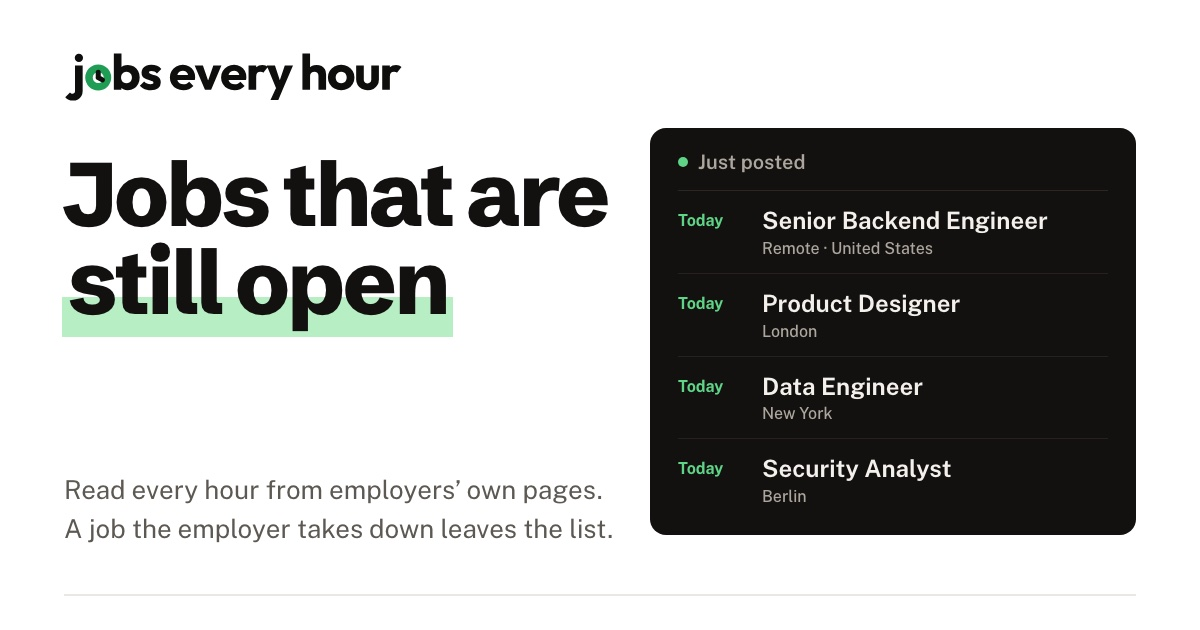
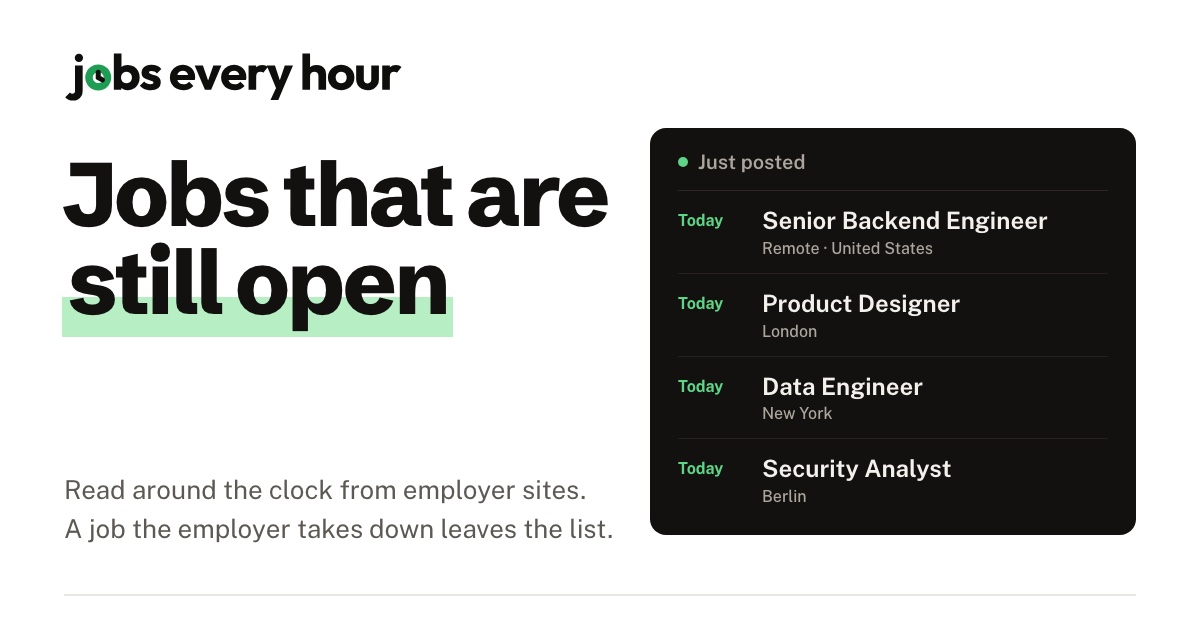
Share picture: its address carries its version, so Cloudflare and social networks stop showing the old Hiring Right Now picture; the line says around the clock

Changed region(s): [[0.1233, 0.754, 0.4933, 0.8143]]

diff --git a/build.py b/build.py
@@ -60,6 +60,10 @@ CFG["talent_db"] = bool(CFG["api_url"]) and (os.environ.get("HRN_TALENT_DB") == 
 SITE, BASE, P = CFG["site_name"], CFG["base_url"].rstrip("/"), CFG.get("base_path", "").rstrip("/")
 LVL_NAME = {"Intern": "Intern", "Junior": "Junior", "Senior": "Senior", "Lead": "Lead and above", "": "No level in the title"}   # the one vocabulary for seniority (AUDIT 21); "Lead" covers lead, staff, principal, head of, director
 FULL = BASE + P
+try:      # the share picture's address carries its version: Cloudflare and the social networks keep a picture for weeks, and on 27 Nov
+    OG_URL = f"{FULL}/og.jpg?v={hashlib.md5((ROOT / 'assets' / 'og.jpg').read_bytes()).hexdigest()[:8]}"   # /og.jpg was still the old brand
+except Exception:
+    OG_URL = f"{FULL}/og.jpg"
 TODAY = datetime.date.today().isoformat()
 e = html.escape
 MAIL = {k: v for k, v in (CFG.get("emails") or {}).items() if v}       # one address per department: jobs, partners, press, privacy, abuse, security
@@ -2153,7 +2157,7 @@ def page(path, title, desc, body, head="", sitemap=True, hero="", compact=False,
 <link rel="canonical" href="{e(url)}">
 <meta property="og:title" content="{e(title)}"><meta property="og:description" content="{e(desc)}">
 <meta property="og:type" content="website">{"" if compact else f'<meta property="og:url" content="{e(url)}">'}<meta property="og:site_name" content="{e(SITE)}">
-<meta property="og:image" content="{FULL}/og.jpg"><meta name="twitter:card" content="summary_large_image"><meta name="theme-color" content="#121110">
+<meta property="og:image" content="{OG_URL}"><meta name="twitter:card" content="summary_large_image"><meta name="theme-color" content="#121110">
 <link rel="icon" type="image/svg+xml" href="{P}/favicon.svg"><link rel="apple-touch-icon" href="{P}/brand/apple-touch-icon.png"><link rel="manifest" href="{P}/manifest.json">
 {"" if compact else f'<link rel="alternate" type="application/rss+xml" title="{e(SITE)} — latest jobs" href="{P}/feed.xml">'}
 <link rel="preload" href="{P}/fonts/publicsans-latin.woff2" as="font" type="font/woff2" crossorigin><link rel="preload" href="{P}/fonts/schibsted-latin.woff2" as="font" type="font/woff2" crossorigin>
@@ -11236,7 +11240,7 @@ document.getElementById('st-again').onclick=function(){f.reset();out.hidden=true
     def guide(slug, title, desc, cat, lead, body, prev, more=(), extra_head=""):
         ld_ = ('<script type="application/ld+json">' + json.dumps({"@context": "https://schema.org", "@type": "Article", "headline": title, "description": desc, "datePublished": PUBLISHED, "dateModified": TODAY,
                "author": {"@type": "Organization", "name": SITE, "url": FULL + "/about/"}, "publisher": {"@type": "Organization", "name": SITE, "url": FULL + "/", "logo": {"@type": "ImageObject", "url": FULL + "/og.jpg"}},
-               "mainEntityOfPage": f"{FULL}/guides/{slug}/", "image": FULL + "/og.jpg"}, ensure_ascii=False).replace("</", "<\\/") + "</script>")
+               "mainEntityOfPage": f"{FULL}/guides/{slug}/", "image": OG_URL}, ensure_ascii=False).replace("</", "<\\/") + "</script>")
         # sections review, batch 3. What to read next is a row of links that look like links (it was one grey line). The short answer
         # of an advice article stands first, right under the question in the heading, and the paragraph that sets the scene after it.
         # A guide with three headings or more gets the "On this page" list beside it (with_toc() looks for section() blocks, a guide
@@ -12665,7 +12669,7 @@ document.getElementById('st-again').onclick=function(){f.reset();out.hidden=true
         {"@type": "Question", "name": q_, "acceptedAnswer": {"@type": "Answer", "text": a_}} for q_, a_ in bc_qa]}, ensure_ascii=False).replace("</", "<\\/") + "</script>")
     bc_ld += ('<script type="application/ld+json">' + json.dumps([
         {"@context": "https://schema.org", "@type": "Article", "headline": "Which free resume builders let you download the PDF?",
-         "datePublished": BC.CHECKED, "dateModified": bc_days[-1], "mainEntityOfPage": f"{FULL}/free-resume-builders/", "image": f"{FULL}/og.jpg",
+         "datePublished": BC.CHECKED, "dateModified": bc_days[-1], "mainEntityOfPage": f"{FULL}/free-resume-builders/", "image": OG_URL,
          "author": {"@type": "Organization", "name": SITE, "url": FULL + "/about/"},
          "publisher": {"@type": "Organization", "name": SITE, "url": FULL + "/", "logo": {"@type": "ImageObject", "url": FULL + "/brand/icon-512.png"}}},
         {"@context": "https://schema.org", "@type": "ItemList", "name": "Resume builders compared by what the free plan gives",

diff --git a/og.py b/og.py
@@ -34,7 +34,7 @@ hr{position:absolute;left:64px;right:64px;bottom:34px;border:0;border-top:2px so
 </style></head><body>
 <div class="logo">MARK SITENAME</div>
 <h1>Jobs that are <span>still open</span></h1>
-<p>Read every hour from employers’ own pages.<br>A job the employer takes down leaves the list.</p>
+<p>Read around the clock from employer sites.<br>A job the employer takes down leaves the list.</p>
 <div class="board"><div class="bh"><i></i>Just posted</div>ROWS</div><hr>
 </body></html>"""
 
